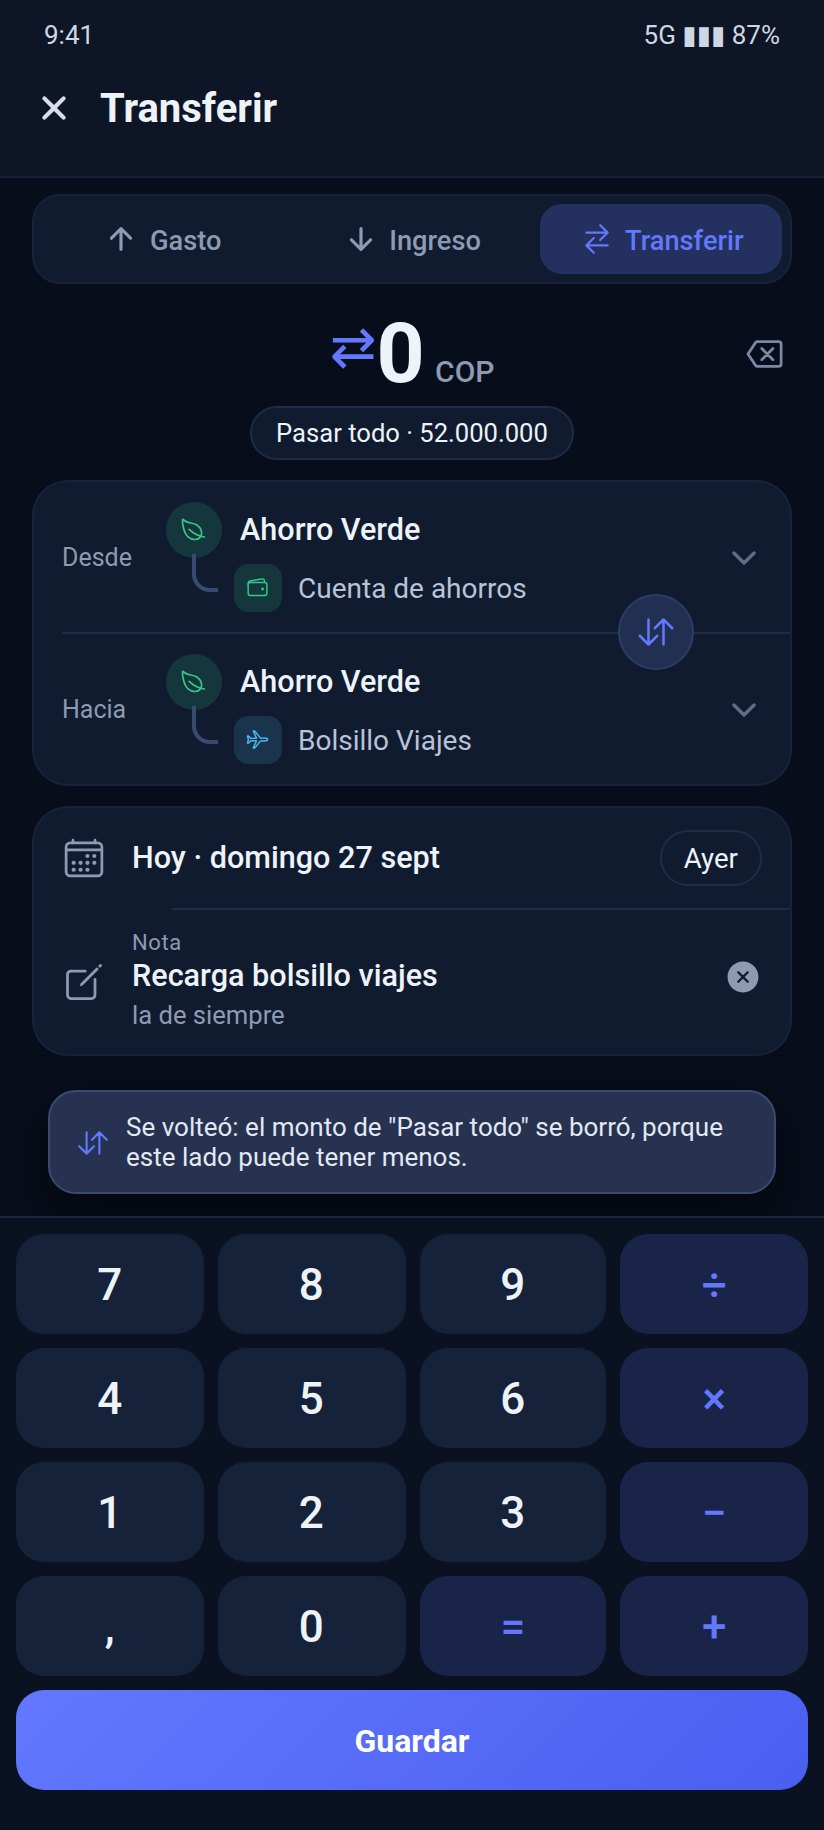
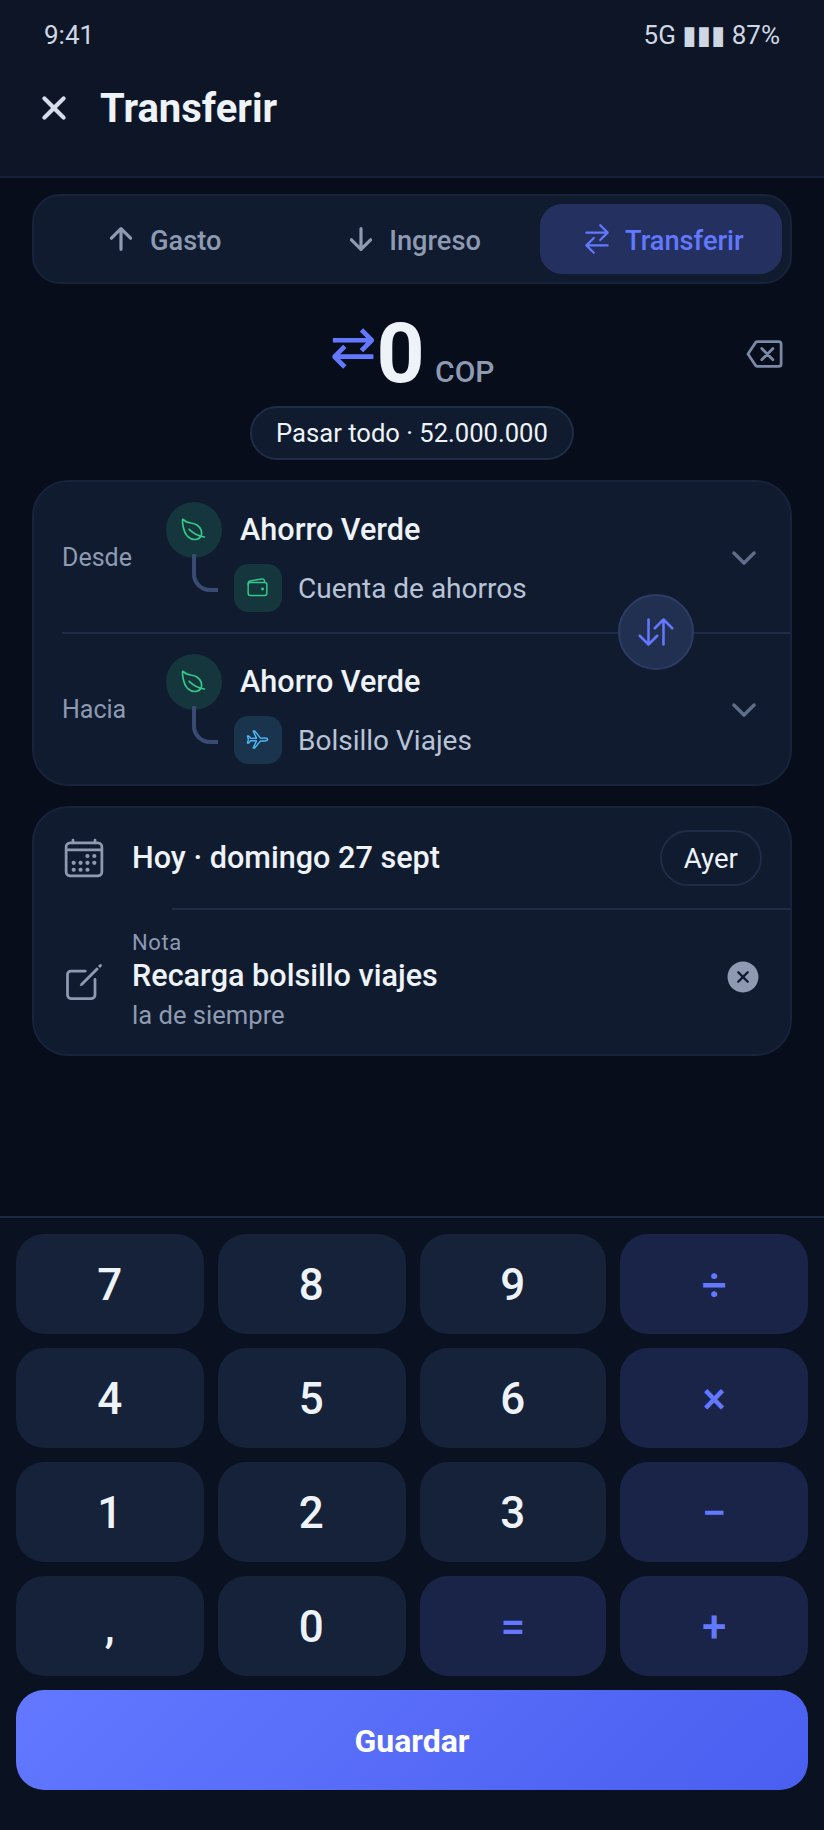
Group 4: no notice on Invertir, and the same product never on both ends
Choosing on one side the product the other holds moves the other side to
the product the route most often uses; the red error and the notice after
Invertir are gone.

Claude-Session: https://claude.ai/code/session_01QyUqFix1SMdsKVBtd1Wz88

Changed region(s): [[0.0607, 0.5918, 0.9405, 0.6541]]

diff --git a/docs/mockups/README.md b/docs/mockups/README.md
@@ -21,7 +21,7 @@ is redone, and superseded by Jose's review of 2026-09-28.
 | `1a`–`1n` | Group 1 (v5): Inicio (transfers apart, the donut with a capped legend), one account with products (its two quick buttons), one account with a long name (ellipsis and sliding), the "+" sheet, the movement form for spending, writing a note, a transfer, a move between products, two currencies, the account, product and category lists, editing and deleting |
 | `2a`–`2r` | Group 2 (v4): Cuentas (net worth, sorting, a multi-currency account, a card, one set aside), where net worth comes from, currencies and rates, typing a rate, adding a currency, a new account by hand and from a statement (reading it, and the form it fills), editing a card (top and bottom, the limit and its history), deleting, the icon, colour and own image, the archived, no accounts yet, an account whose face is its own image (`2q`) and its colour behind that image (`2r`) |
 | `3a`–`3j` | Group 3 (v4): Categorías closed and open, which list for a new one, editing (Para locked), a new one, the investment-return switch, the face's icon, colour and own image, the archived |
-| `4t01`–`4t13` | Group 4: every transfer with products, each end compact (account and product on two lines, two shapes) - the (i) help opened (`4t01b`), long names and their slide (`4t12`, `4t13`), between two products of one account, choosing the product it leaves from, product to an account, account to a product, choosing the product it lands in, between two accounts with products, into a product set aside from net worth, into another currency, after "Invertir", the same product on both ends, editing one |
+| `4t01`–`4t13` | Group 4: every transfer with products, each end compact (account and product on two lines, two shapes) - the (i) help opened (`4t01b`), choosing on one side the product the other holds and the other side moving (`4t10a`, `4t10b`), long names and their slide (`4t12`, `4t13`), between two products of one account, choosing the product it leaves from, product to an account, account to a product, choosing the product it lands in, between two accounts with products, into a product set aside from net worth, into another currency, after "Invertir", the same product on both ends, editing one |
 | `4a`–`4zz` | Group 4 (v5): Rendimientos in the Cuentas tab, adding an account; an account's page with its selector (Productos, Movimientos, Pagos, Días), one day corrected or set to zero, stopping it; a product with its selector (Producto, Saldo said as a sum, Tasa, one using the account's rate, a new rate, Bonificación and a new one), deleting it and choosing where its balance goes; a CDT (CDT, Al vencer and choosing where it pays, Pagos); a new product's Saldo; a product's own income and expense with "¿Qué cambia?" as one row opening a sheet, and the note |
 | `d01`–`d05` | Report (money, yields), reading a statement, Por revisar (and choosing several) |
 | `d06`–`d07` | Avisos del banco, without and with permission |

diff --git a/CLAUDE.md b/CLAUDE.md
@@ -2235,8 +2235,20 @@ does today, with these changes of ACCESS for Jose to accept or refuse:
 - **An explanation is an (i), not a paragraph**: a small (i) beside what it
   explains opens a bubble on tap (`4t01b`); a one-off outcome, such as the
   amount cleared after "Invertir", is a short notice that goes away by
-  itself; an error marks the thing that is wrong ("Bolsillo Viajes · elige
-  otro producto" in red), without a line of its own.
+  itself.
+- **Nothing is said when "Invertir" is pressed, and the same product never
+  reaches both ends** (Jose, 2026-09-28). The form starts where it does
+  today - "Desde" is the account on show (or the most used) with the
+  product money most often leaves from (not the usual one), "Hacia" the
+  same account with the usual product - and choosing, on one side, the
+  product the other side holds keeps that choice and moves the OTHER side
+  to the product the route most often uses. No red text, no disabled
+  Guardar (`4t10a`, `4t10b`). Verified today: `chooseProduct` in
+  `entry.component.ts` already moves the other side, but to the first
+  other product in the list; picking the most used one instead is a small
+  change of behaviour, Jose's.
+- **Every note row, every end and every list uses the same icons as the
+  account and product lists**, and the product hangs from its account.
 - **Long account and product names slide** in every end and every list
   (`marquee.service.ts`, shown in `4t12` and `4t13`).
 - (The black areas in the contact sheets sent before were empty slots,
